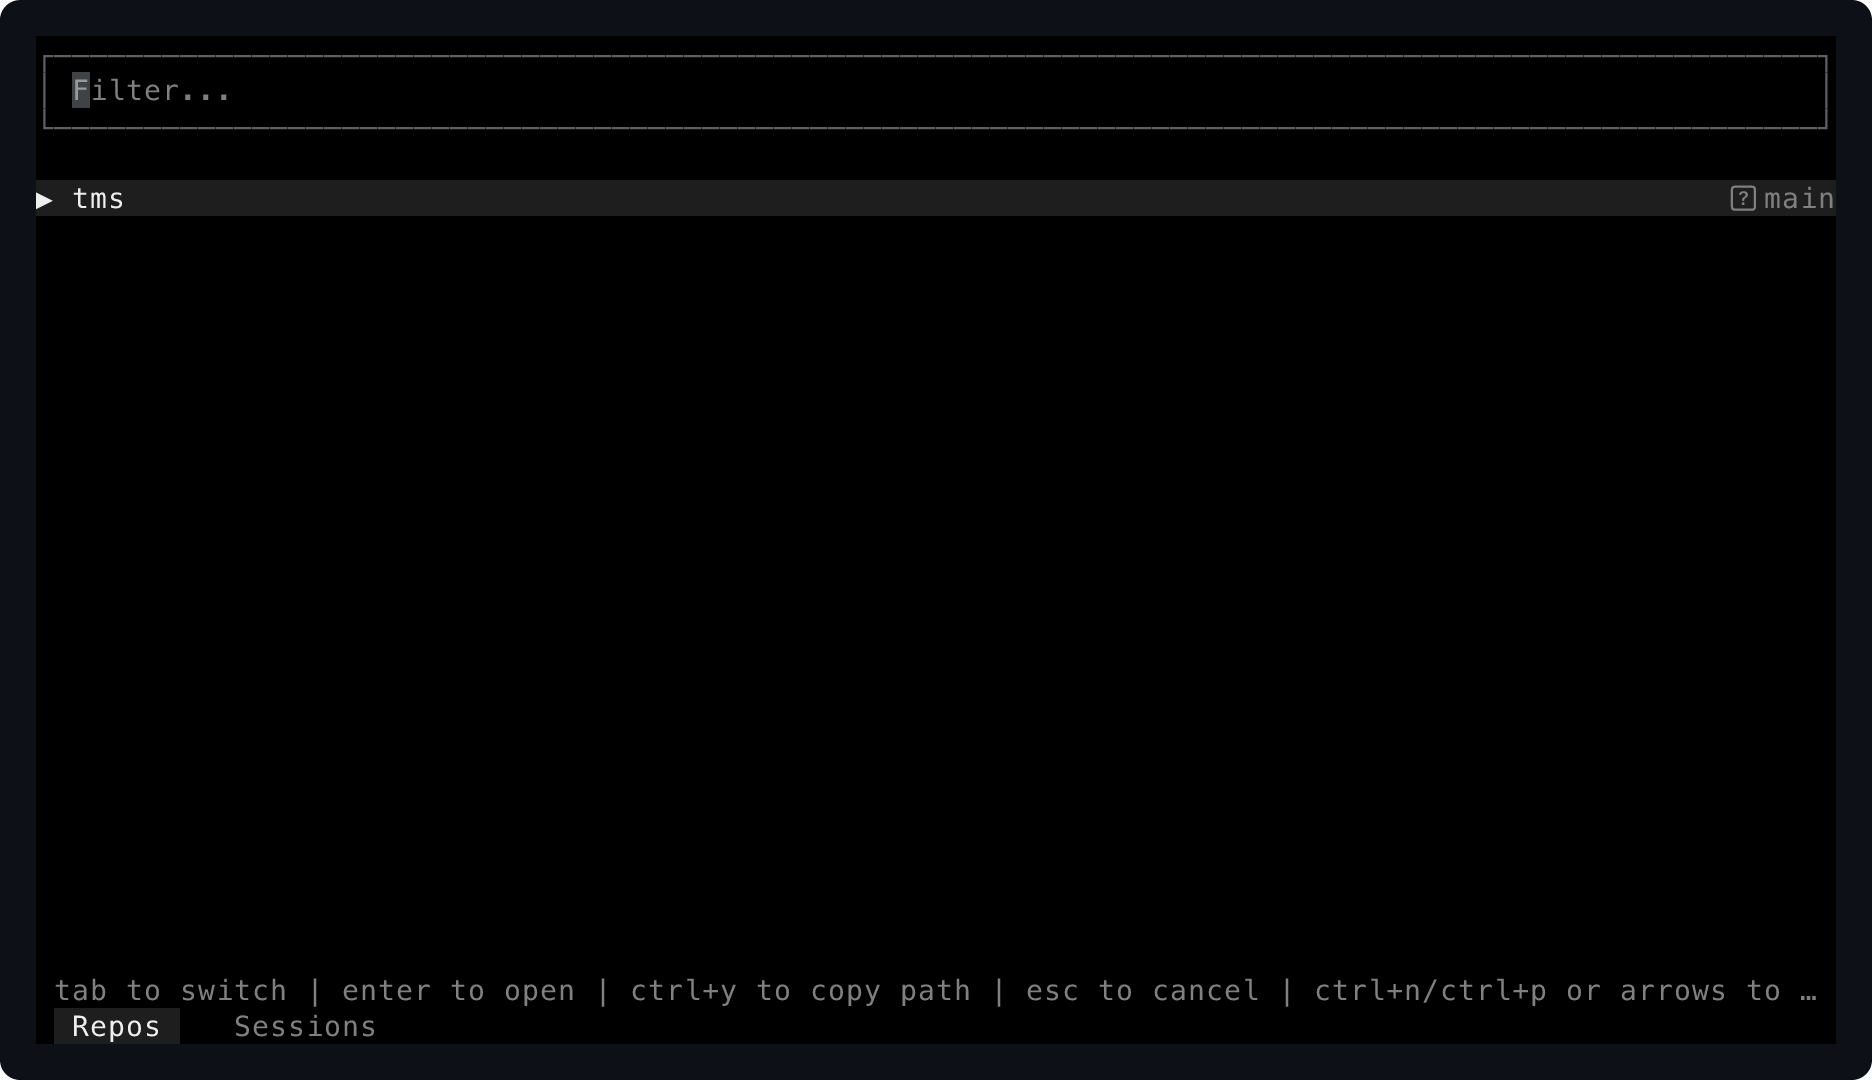
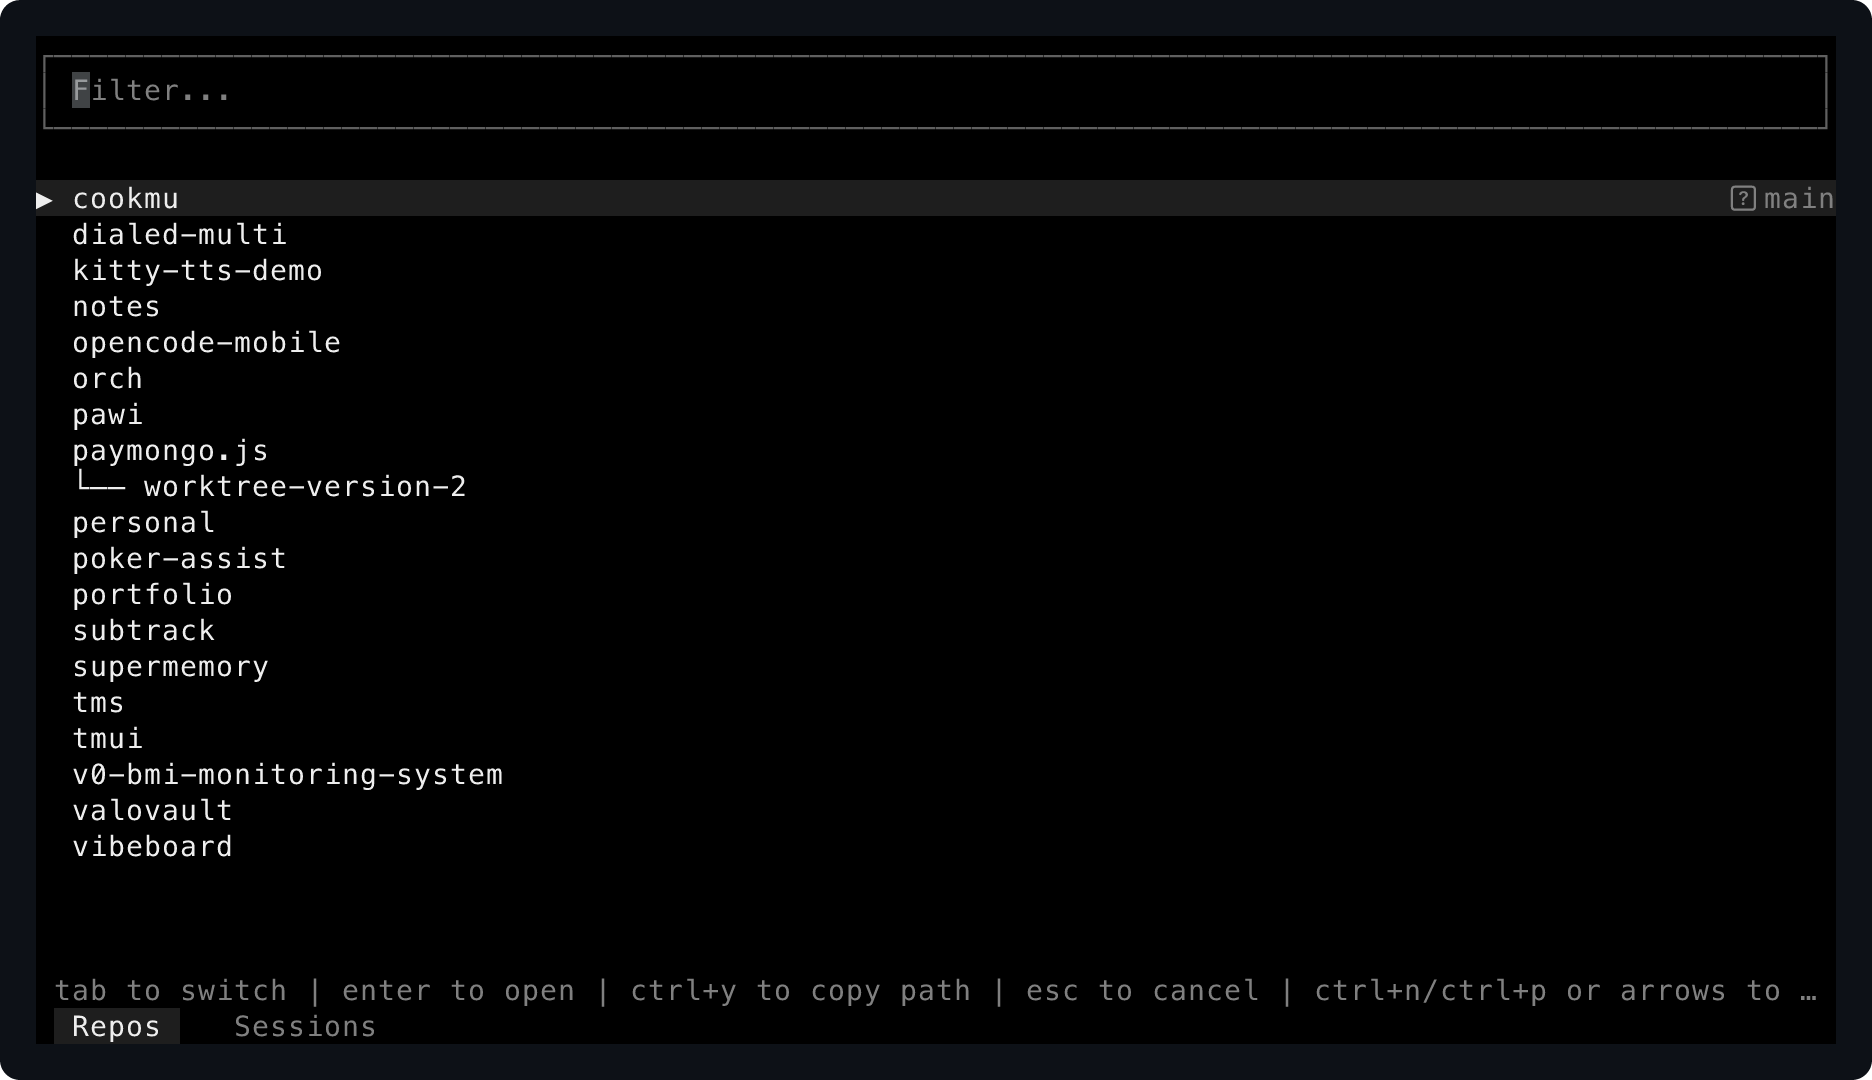
chore(release): version tms 0.3.2
- Restore multi-repo README demo screenshot

- Default screenshot script to personal projects root

Changed region(s): [[0.031, 0.1833, 0.2788, 0.7944]]

diff --git a/scripts/screenshot.ts b/scripts/screenshot.ts
@@ -9,7 +9,8 @@ const args = process.argv.slice(2);
 const out = valueFor("--out") ?? join(rootDir, "docs", "screenshots", "tms-picker");
 const cols = valueFor("--cols") ?? "100";
 const rows = valueFor("--rows") ?? "28";
-const waitFor = valueFor("--wait-for") ?? "tms";
+const waitFor = valueFor("--wait-for") ?? "cookmu";
+const demoPath = valueFor("--path") ?? resolve(rootDir, "..");
 const configPath = join(rootDir, ".tmp", "cellshot", "config.json");
 const binaryPath = join(rootDir, "dist", process.platform === "win32" ? "tms.exe" : "tms");
 
@@ -52,9 +53,9 @@ writeFileSync(
   configPath,
   `${JSON.stringify(
     {
-      paths: [rootDir],
-      depth: 0,
-      excluded: [".git", "dist", "node_modules", "target"],
+      paths: [demoPath],
+      depth: 1,
+      excluded: [".git", "dist", "node_modules", "target", ".tmp"],
     },
     null,
     2,

diff --git a/docs/repo-workflows.md b/docs/repo-workflows.md
@@ -44,10 +44,10 @@ cargo install --locked --git https://github.com/kitlangton/cellshot cellshot
 
 The screenshot script writes an isolated config under `.tmp/cellshot/config.json` so captures do not depend on a user's personal `~/.config/tms/config.json`.
 
-Override the default capture shape if needed:
+Override the default capture shape or repo root if needed:
 
 ```sh
-bun run screenshot -- --cols 120 --rows 34 --out docs/screenshots/wide-picker
+bun run screenshot -- --cols 120 --rows 34 --path /Users/pjuguilon/Documents/codes/personal --out docs/screenshots/wide-picker
 ```
 
 ## CI

diff --git a/CHANGELOG.md b/CHANGELOG.md
@@ -1,5 +1,11 @@
 # tms
 
+## 0.3.2
+
+### Patch Changes
+
+- Restore the README demo screenshot to the multi-repo Cellshot capture and make the screenshot script default to the parent personal projects directory so it does not regress to a one-repo image.
+
 ## 0.3.1
 
 ### Patch Changes
